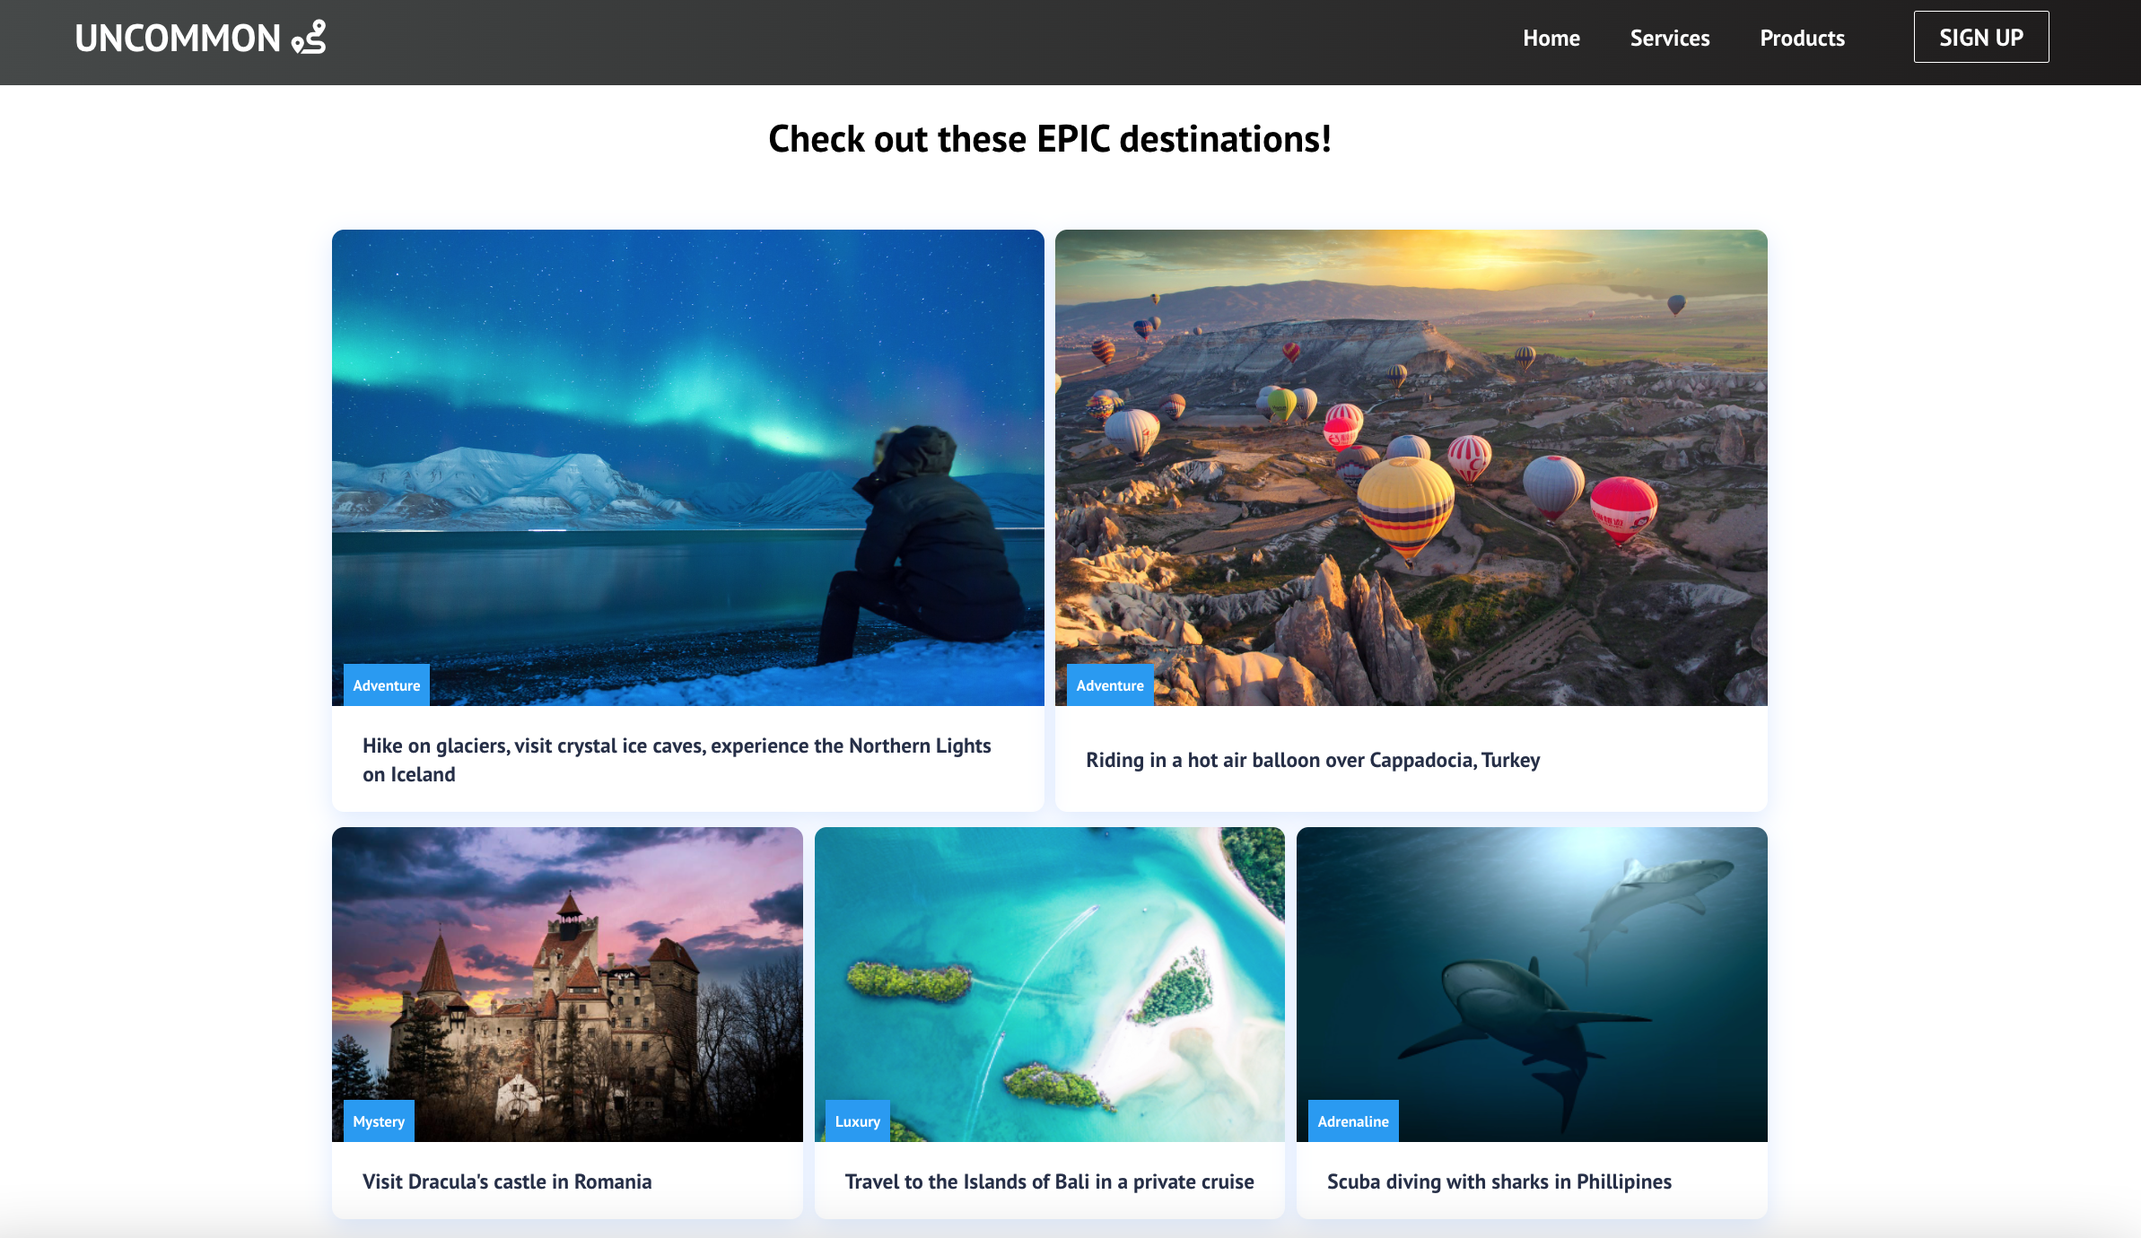
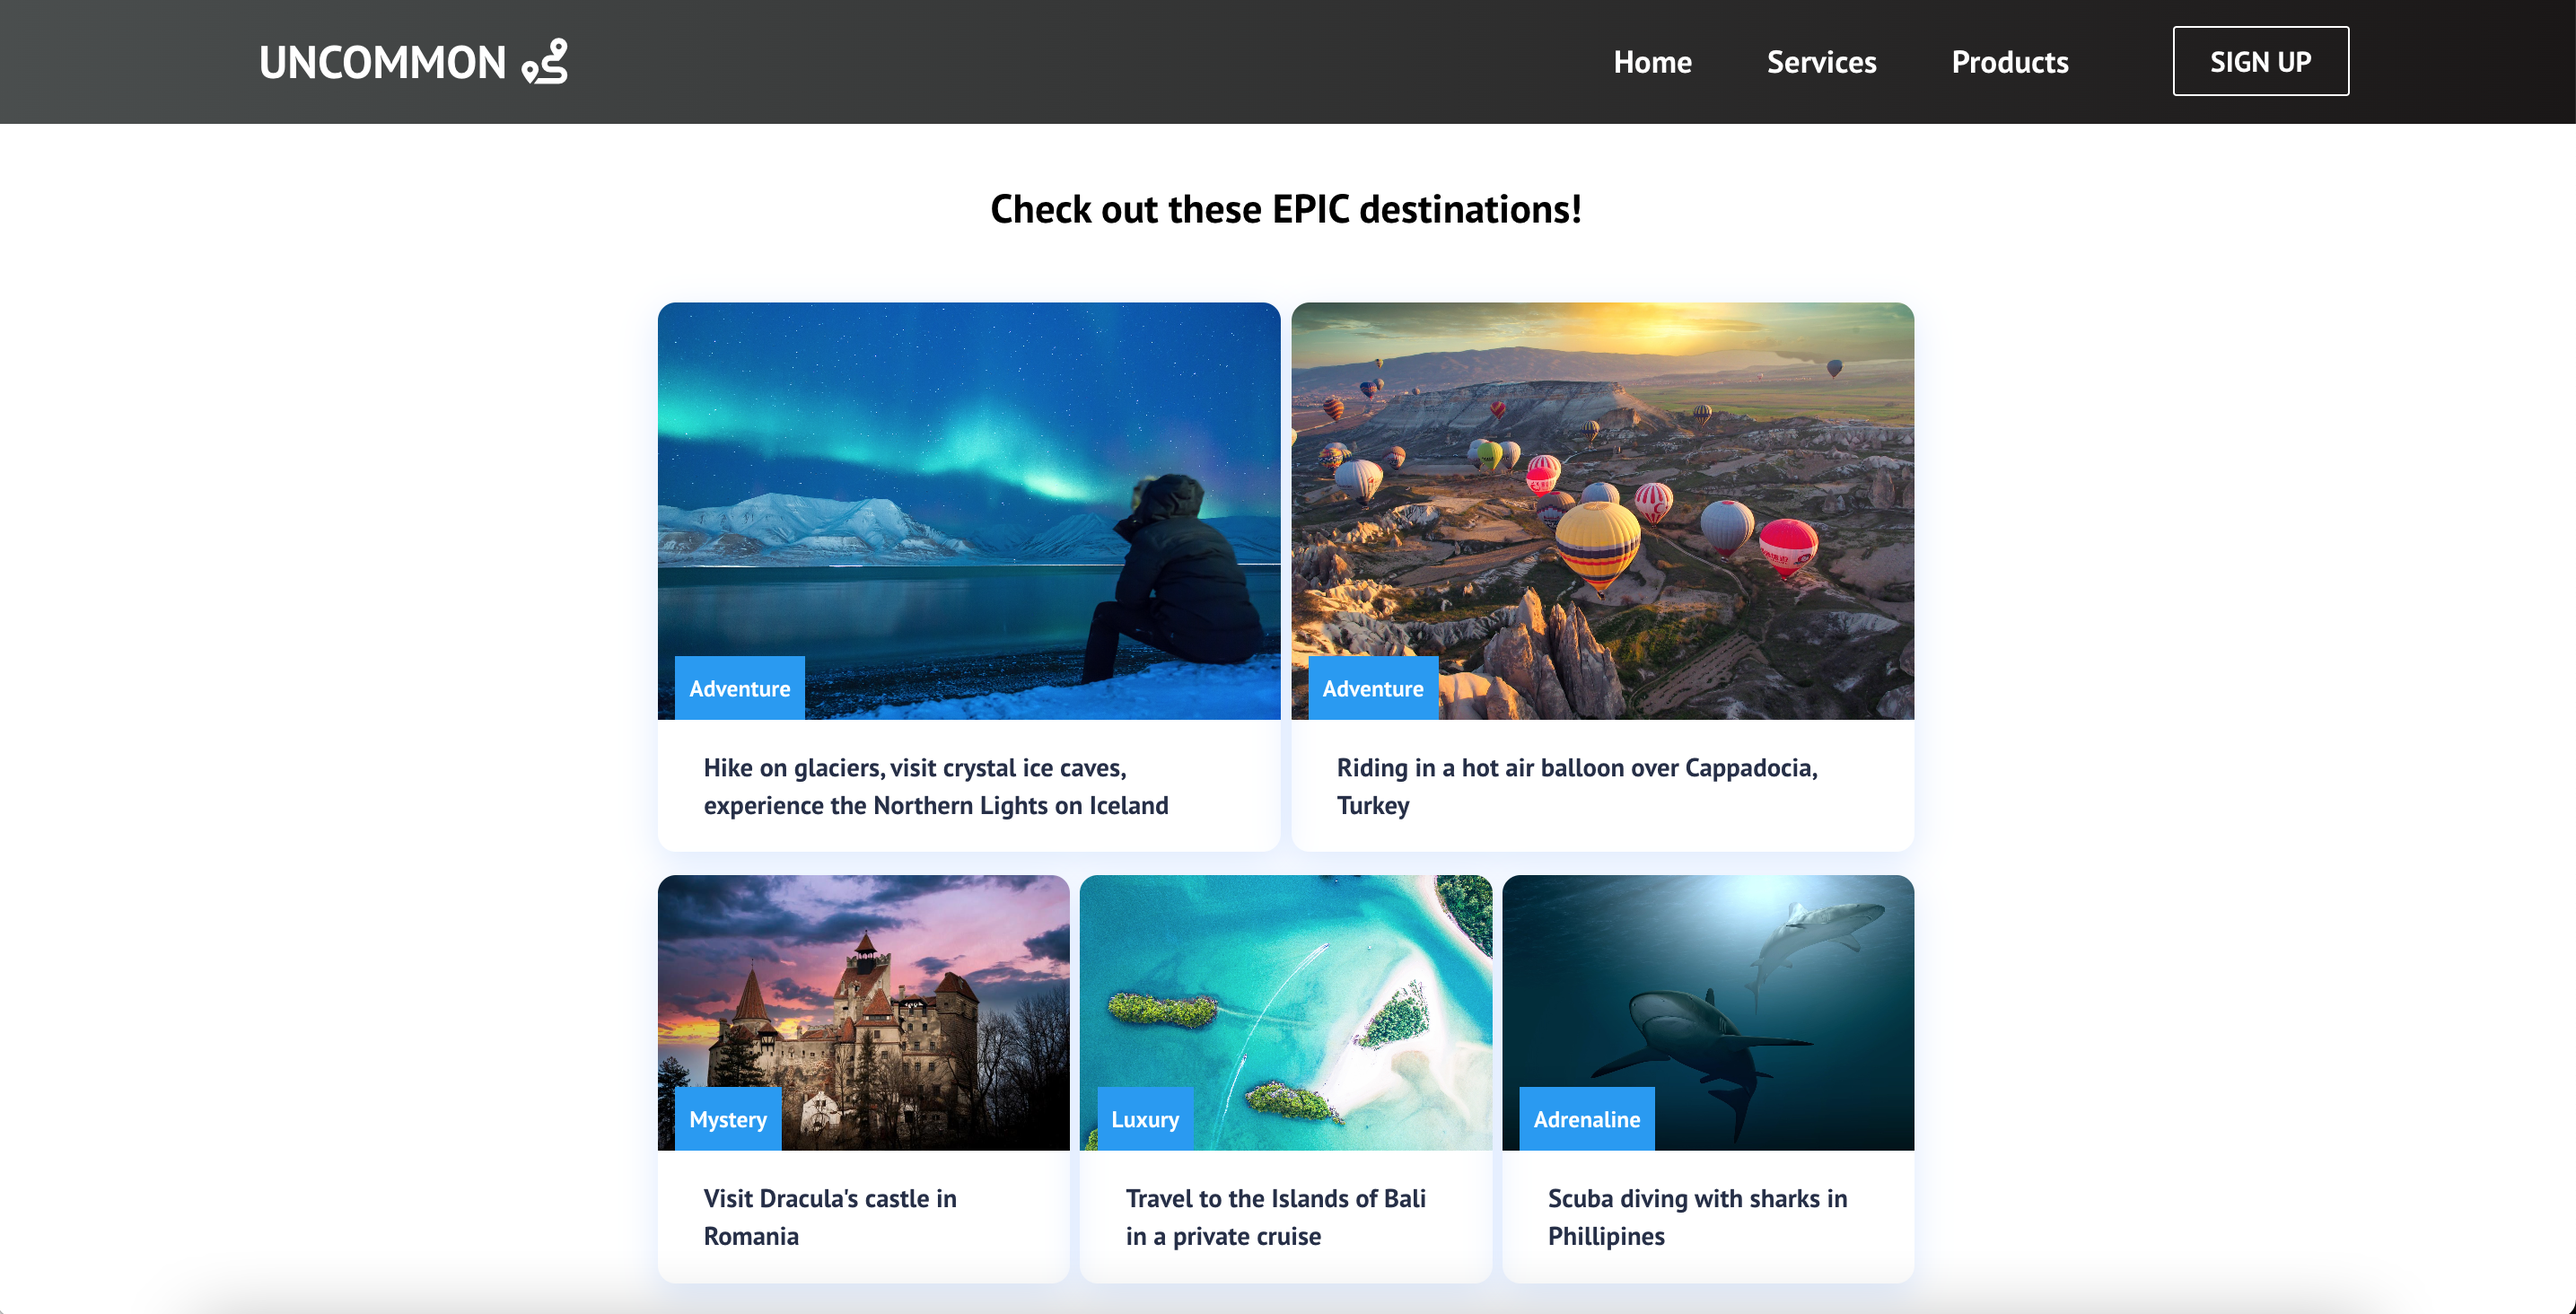
Fix rexponsive design and add some minor fixes

diff --git a/src/components/Footer/styles.scss b/src/components/Footer/styles.scss
@@ -1,7 +1,7 @@
 .footer {
   &__container {
     background-color: #242424;
-    padding: 4rem 0 2rem 0;
+    padding: 2rem 0;
     display: flex;
     flex-direction: column;
     justify-content: center;
@@ -13,7 +13,6 @@
     justify-content: center;
     align-items: center;
     text-align: center;
-    padding: 1.5rem;
     color: #fff;
     > p {
       font-family: "Trebuchet MS", "Lucida Sans Unicode", "Lucida Grande",
@@ -21,12 +20,21 @@
     }
   }
   &__heading {
-    margin-bottom: 1.5rem;
-    font-size: 1.5rem;
+    margin: 0 2rem 1.5rem 2rem;
+    font-size: 1.2rem;
   }
   &__text {
     margin-bottom: 1.5rem;
-    font-size: 1.25rem;
+    font-size: 0.8rem;
+    font-style: italic;
+    text-align: left;
+    margin-top: 0.5rem;
+    @media (min-width: 820px) {
+      margin-top: 0;
+    }
+  }
+  &__form {
+    margin: 0 2rem;
   }
   &__input {
     padding: 0.5rem 1.25rem;
@@ -35,7 +43,7 @@
     outline: none;
     border: none;
     font-size: 1.1rem;
-    margin-bottom: 1rem;
+    margin-bottom: 0.5rem;
     border: 1px solid #fff;
     &::placeholder {
       color: #b1b1b1;
@@ -65,17 +73,16 @@
     margin: 1rem;
     text-align: left;
     width: 160px;
-    @media (min-width: 820px) {
-      align-items: flex-start;
-    }
+    font-size: 0.8rem;
     h2 {
       margin-bottom: 1rem;
       color: #fff;
+      font-size: 1rem;
     }
     a {
       color: #fff;
       text-decoration: none;
-      margin-bottom: 0.5rem;
+      margin-bottom: 0.3rem;
       &:hover {
         color: #b1b1b1;
         transition: all 0.3s ease-out;
@@ -83,7 +90,7 @@
     }
   }
   &__email-form {
-    margin-bottom: 2rem;
+    margin-bottom: 0.5rem;
   }
   &__logo-sign {
     color: #fff;
@@ -91,13 +98,16 @@
     margin-left: 1.25rem;
     cursor: pointer;
     text-decoration: none;
-    font-size: 2rem;
+    font-size: 1.5rem;
     display: flex;
     align-items: center;
-    margin-bottom: 1rem;
+    @media screen and (max-width: 820px) {
+      margin-bottom: 1rem;
+    }
   }
   &__website-rights {
     color: #fff;
+    font-size: 0.7rem;
     @media screen and (max-width: 820px) {
       margin-bottom: 1rem;
     }
@@ -129,6 +139,6 @@
     display: flex;
     justify-content: space-between;
     align-items: center;
-    width: 240px;
+    width: 200px;
   }
 }

diff --git a/src/components/Navbar/styles.scss b/src/components/Navbar/styles.scss
@@ -5,22 +5,16 @@
     rgba(26, 23, 23, 1) 100%
   );
   height: 70px;
-  font-size: 1.2rem;
+  font-size: 1.1rem;
   position: sticky;
   top: 0;
   left: 0;
   z-index: 999;
-  @media (min-width: 480px) {
-    height: 80px;
-  }
   &__container {
     display: flex;
     justify-content: center;
     align-items: center;
     height: 70px;
-    @media (min-width: 480px) {
-      height: 80px;
-    }
   }
   &__logo {
     color: #fff;
@@ -33,10 +27,10 @@
     position: absolute;
     top: 0;
     left: 0;
-    transform: translate(25%, 50%);
+    transform: translate(25%, 55%);
     @media (min-width: 480px) {
-      font-size: 2rem;
       margin-left: 1.25rem;
+      transform: translate(25%, 60%);
     }
     @media (min-width: 960px) {
       position: static;
@@ -55,9 +49,6 @@
     opacity: 1;
     transition: all 0.5s ease;
     gap: 0.6rem;
-    @media (min-width: 480px) {
-      top: 80px;
-    }
     @media (min-width: 960px) {
       flex-direction: row;
       justify-content: flex-end;
@@ -83,7 +74,7 @@
     position: absolute;
     top: 0;
     right: 0;
-    transform: translate(-100%, 60%);
+    transform: translate(-100%, 55%);
     font-size: 1.8rem;
     cursor: pointer;
     color: #fff;
@@ -91,13 +82,11 @@
     @media (min-width: 480px) {
       font-size: 2rem;
       margin-left: 1.25rem;
+      transform: translate(-100%, 40%);
     }
     @media (min-width: 960px) {
       display: none;
     }
-  }
-  &__item {
-    height: 80px;
   }
   &__links {
     color: #fff;
@@ -131,7 +120,7 @@
       border-radius: 4px;
       width: 80%;
       text-decoration: none;
-      font-size: 1.5rem;
+      font-size: 1.3rem;
       background-color: transparent;
       color: #fff;
       padding: 0.9rem 1.25px;
@@ -150,7 +139,6 @@
 
 .fa-route {
   margin-left: 0.5rem;
-  font-size: 1.8rem;
 }
 
 .fa-bars {

diff --git a/src/components/Footer/Footer.js b/src/components/Footer/Footer.js
@@ -11,8 +11,7 @@ function Footer() {
         <p className="footer__heading">
           Join the UNCOMMON newsletter to receive our best vacation deals!
         </p>
-        <p className="footer__text">You can unsubscribe at any time</p>
-        <div className="input-areas">
+        <div className="footer__form">
           <form className="footer__email-form">
             <input
               className="footer__input"
@@ -21,6 +20,7 @@ function Footer() {
               placeholder="Your e-mail"
             ></input>
             <Button btnStyle="btn--outline">Subscribe</Button>
+            <p className="footer__text">*You can unsubscribe at any time</p>
           </form>
         </div>
       </section>

diff --git a/src/components/Cards/styles.scss b/src/components/Cards/styles.scss
@@ -1,29 +1,20 @@
 .cards {
   padding: 2rem 0 1rem;
   background: #fff;
-  @media (min-width: 600px) {
-    padding: 4rem;
-  }
   &__container {
-    max-width: 1200px;
+    max-width: 700px;
     width: 100%;
     margin: 0 auto;
-    @media (min-width: 600px) {
-      width: 90%;
-    }
   }
   &__title {
     text-align: center;
     font-size: 1.4rem;
     @media (min-width: 600px) {
-      font-size: 2rem;
+      font-size: 1.4rem;
     }
   }
   &__wrapper {
     margin: 2rem 0 2rem;
-    @media (min-width: 600px) {
-      margin: 3.1rem 0 2.8rem;
-    }
   }
   &__items {
     margin-bottom: 1.5rem;

diff --git a/src/components/CardItem/styles.scss b/src/components/CardItem/styles.scss
@@ -18,7 +18,6 @@
       flex: 0 0 32.8%;
     }
   }
-
   &__link {
     display: flex;
     flex-flow: column;
@@ -68,12 +67,12 @@
     }
   }
   &__info {
-    padding: 1.25rem 1.6rem;
+    padding: 1rem 1.6rem;
     margin: auto 0;
   }
   &__text {
     color: #252e48;
-    font-size: 1.1rem;
-    line-height: 1.5rem;
+    font-size: 0.9rem;
+    line-height: 1.3rem;
   }
 }

diff --git a/src/components/Button/styles.scss b/src/components/Button/styles.scss
@@ -5,7 +5,7 @@
   border-radius: 2px;
   cursor: pointer;
   width: 100%;
-  @media (min-width: 768px) {
+  @media (min-width: 820px) {
     width: auto;
   }
   &--primary {
@@ -21,7 +21,7 @@
   }
   &--medium {
     padding: 0.5rem 1.25rem;
-    font-size: 1.25rem;
+    font-size: 1rem;
     &:hover {
       background-color: #fff;
       color: #242424;

diff --git a/src/components/Navbar/Navbar.js b/src/components/Navbar/Navbar.js
@@ -74,7 +74,7 @@ function Navbar() {
                 className="navbar__links-mobile"
                 onClick={handleCloseMobileMenu}
               >
-                Sign Up
+                SIGN UP
               </Link>
             </li>
           </ul>

diff --git a/src/App.js b/src/App.js
@@ -1,5 +1,5 @@
 import React from "react";
-import { BrowserRouter as Router, Switch, Route } from "react-router-dom";
+import { HashRouter as Router, Switch, Route } from "react-router-dom";
 
 import "./App.scss";
 import Footer from "./components/Footer";

diff --git a/src/components/HeroSection/styles.scss b/src/components/HeroSection/styles.scss
@@ -30,7 +30,7 @@
       font-size: 3.8rem;
     }
     @media (min-width: 960px) {
-      font-size: 5.6rem;
+      font-size: 5rem;
     }
   }
   &__text {
